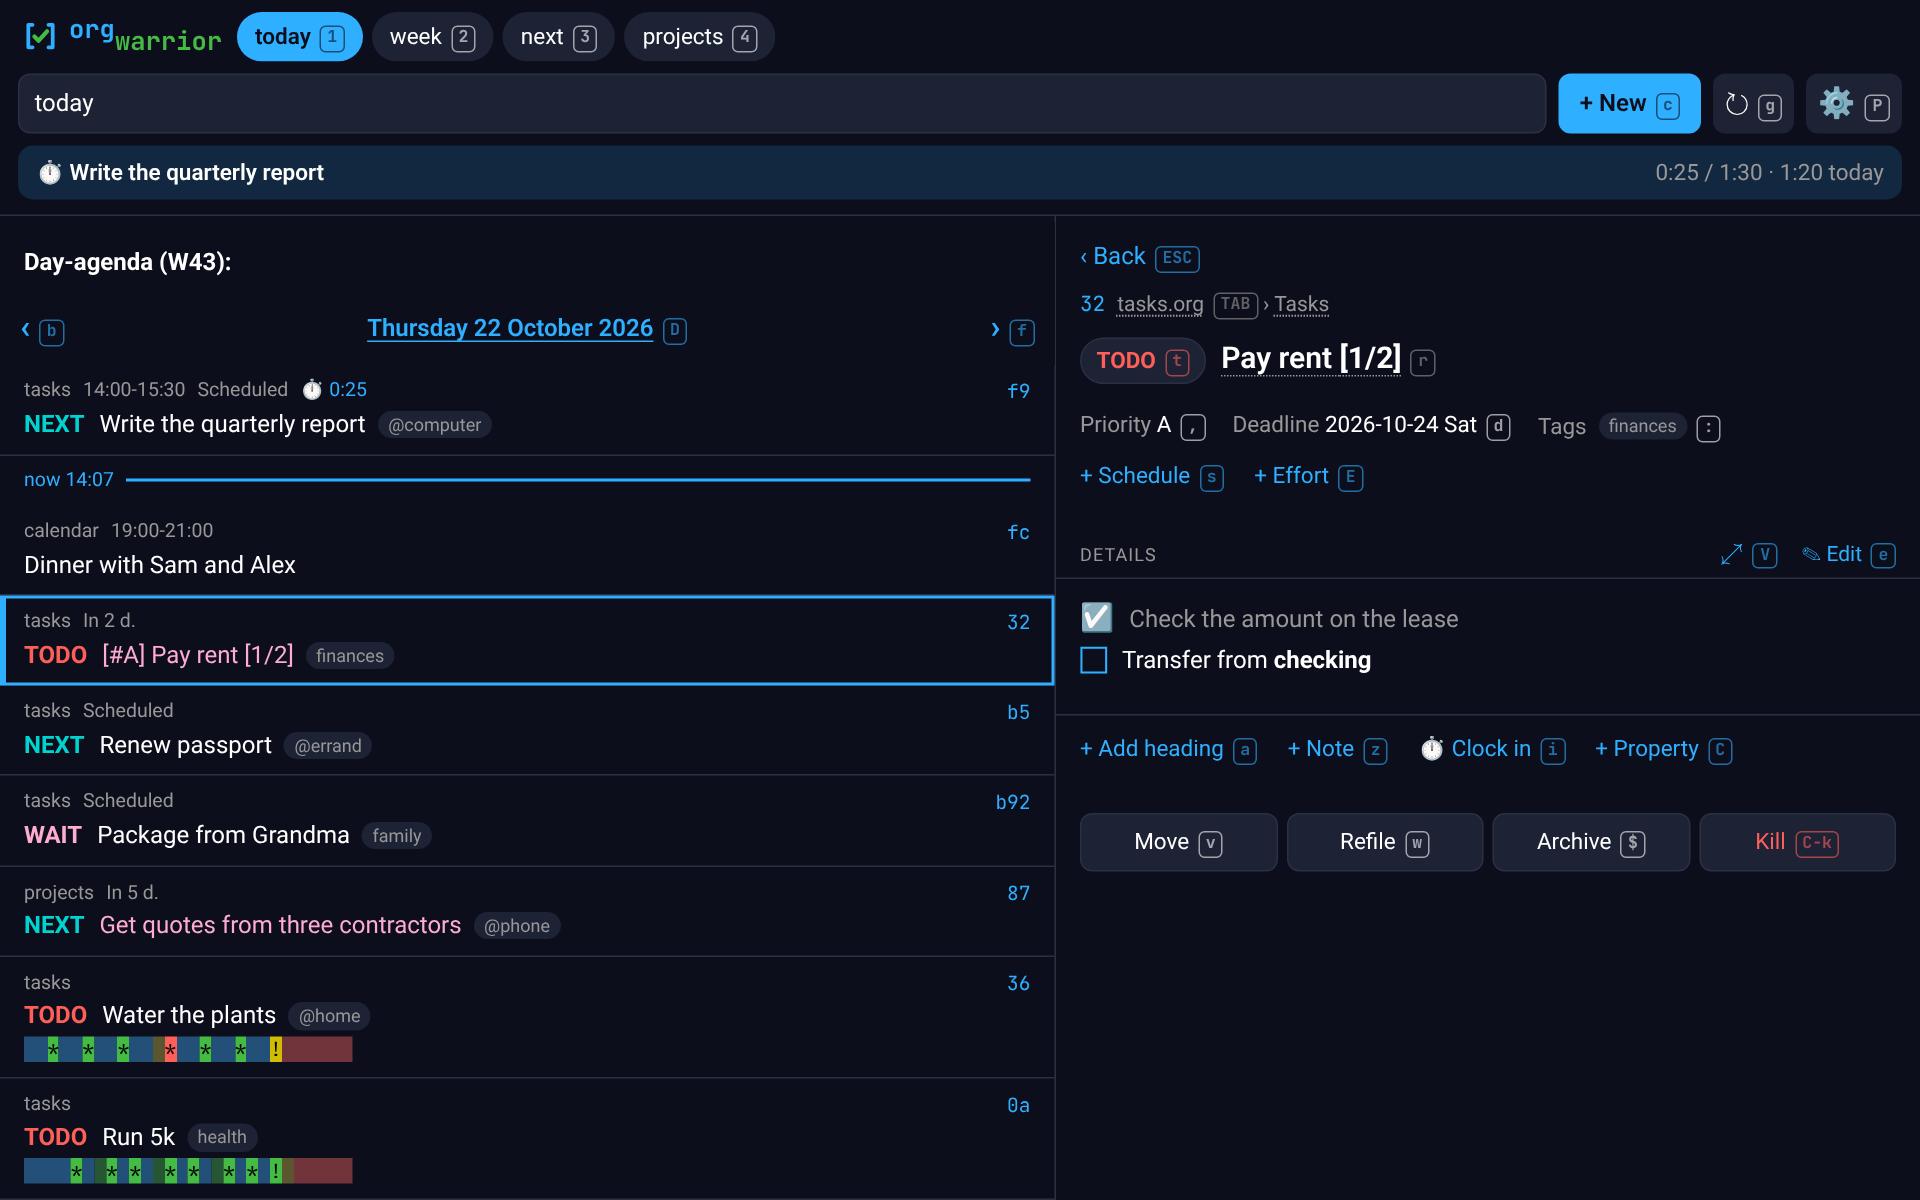
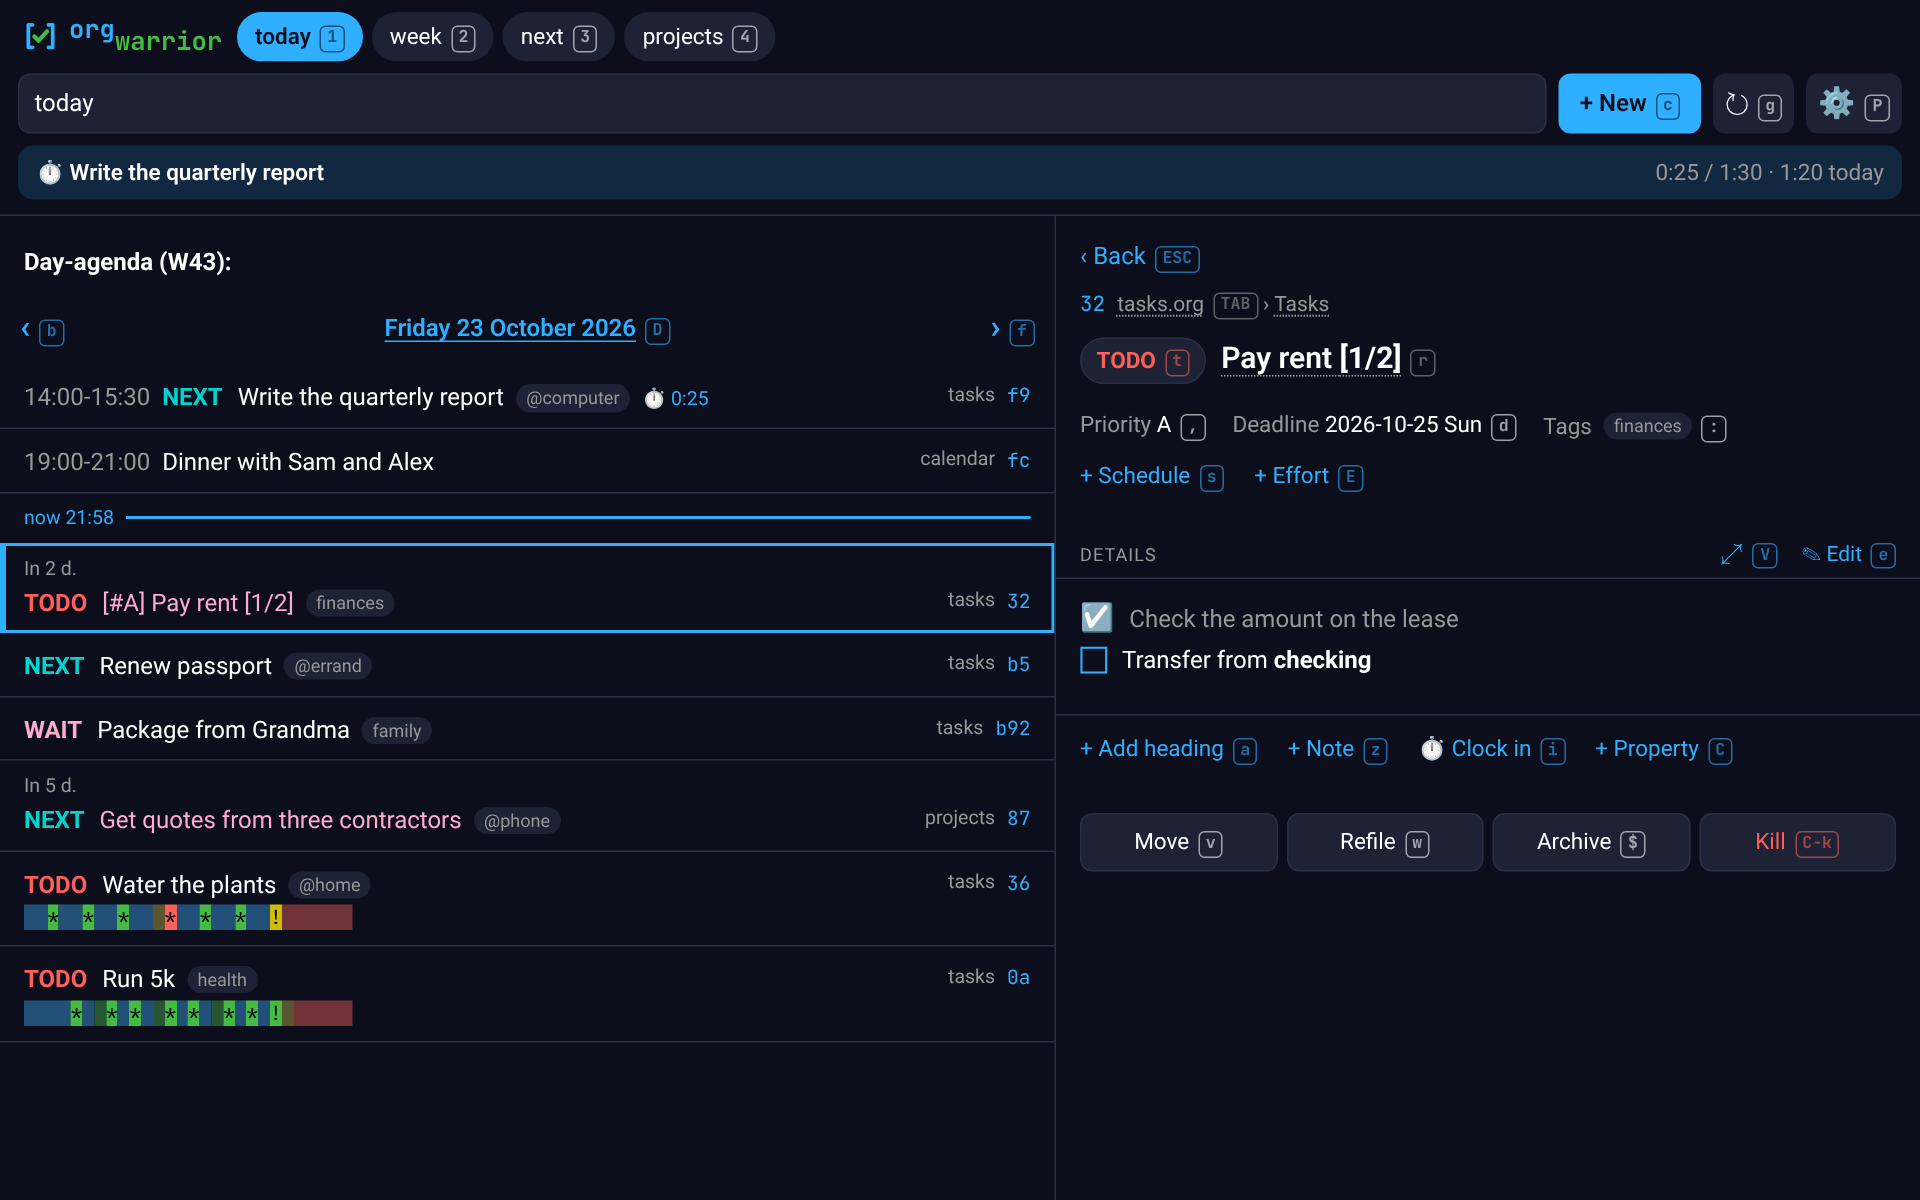
Rows: one layout: the time before the title, the category and ID at its right (the category side by side only), a line above only for a label that says something; no IDs on touch; the task page names its category where it isn't the file's

diff --git a/tests/browser/layout.js b/tests/browser/layout.js
@@ -3,7 +3,7 @@
 import {run, base, PHONE, WIDE} from "./lib.js";
 
 await run(async t => {
-  const {page, fail, expect, idOf, tap, go, back} = t;
+  const {page, fail, expect, check, idOf, tap, go, back} = t;
   await page.goto(`${base}/#/v/all`);
   await page.waitForSelector(".task[data-id]");
   // On a desktop: a right-click is the long press, Escape is Back for a sheet,
@@ -152,4 +152,27 @@ await run(async t => {
   await page.waitForFunction(() => !window.marker && document.querySelector(".task[data-id]"));
   console.log("ok   stale page: reloads itself once nothing's open");
 
+  // Rows: the time before the title, no line above for a bare Scheduled; the
+  // category at the right side by side, not on a phone; on touch no IDs.
+  await page.setViewport(PHONE);
+  await page.goto(`${base}/#/v/today`);
+  await page.waitForSelector(".task[data-id]");
+  const row = title => page.$$eval(".task[data-id]", (rs, t) => {
+    const r = rs.find(r => r.textContent.includes(t)), cat = r?.querySelector(".title > .cat");
+    return r && {meta: r.querySelector(".meta")?.innerText ?? null, time: r.querySelector(".title > .time")?.textContent ?? null,
+                 cat: cat && cat.offsetParent ? cat.textContent : null};
+  }, title);
+  const appt = await row("Dentist appointment");
+  await check("phone: the time before the title, no line above, no category", appt.time === "14:00" && appt.meta === null && appt.cat === null);
+  const touch = await page.evaluate(() => matchMedia("(hover: none) and (pointer: coarse)").matches);
+  if (touch) await check("touch: no IDs on rows", await page.$$eval(".task .id", ids => ids.every(i => !i.offsetParent)));
+  await page.setViewport(WIDE);
+  await page.waitForFunction(() => [...document.querySelectorAll("#list .task[data-id]")].some(r => r.textContent.includes("Dentist appointment")), {timeout: 5000});
+  await check("side by side: the category at the right", (await row("Dentist appointment"))?.cat === "calendar");
+  // A task's page names its category where it isn't the file's name.
+  await go("#/v/all");
+  await page.waitForFunction(() => document.querySelector("#list")?.textContent.includes("Buy batteries"), {timeout: 5000});
+  await go(`#/t/${await idOf("Buy batteries")}`);
+  await page.waitForSelector("#detail .where");
+  await check("the task page: its category", await page.$eval("#detail .where", w => w.querySelector(".category")?.textContent === "Inbox"));
 });

diff --git a/src/orgwarrior_web/static/style.css b/src/orgwarrior_web/static/style.css
@@ -225,6 +225,15 @@ pre.help { font: 13px/1.45 ui-monospace, "JetBrains Mono", monospace; white-spac
 .kids > .sheet-buttons { padding: 0 16px; }
 .meta { display: flex; gap: 8px; font-size: 13px; color: var(--muted); }
 .meta .id { margin-left: auto; font-family: ui-monospace, monospace; color: var(--c4); }
+/* A row: the time before the title; at its right the ID, and the category
+   side by side only (a phone hasn't the room). */
+.title > .id { float: right; margin-left: 8px; font: 13px ui-monospace, monospace; color: var(--c4); line-height: 1.6; }
+.title > .cat { float: right; margin-left: 12px; font-size: 13px; color: var(--muted); line-height: 1.6; }
+.title > .time { margin-right: 8px; color: var(--muted); font-variant-numeric: tabular-nums; }
+@media (max-width: 999px) { .title > .cat { display: none; } }
+/* On touch, rows have no IDs: they're for the keys and the CLI (a task's
+   page still shows its own). */
+@media (hover: none) and (pointer: coarse) { .task .id { display: none; } }
 .title { margin-top: 2px; }
 .habit { margin-top: 4px; font: 13px/1.3 ui-monospace, "JetBrains Mono", monospace; white-space: pre; }
 /* Its days in the theme's own colors, as org-habit's states: clear blue, ready
@@ -252,8 +261,8 @@ pre.help { font: 13px/1.45 ui-monospace, "JetBrains Mono", monospace; white-spac
 .detail .where { color: var(--muted); font-size: 14px; margin-bottom: 10px; }
 .detail .where .id { font-family: ui-monospace, monospace; color: var(--c4); margin-right: 8px; }
 .detail .where a { color: inherit; text-decoration: underline dotted; text-underline-offset: 3px; }
-.detail .where .from, .detail .where .read-only { margin-left: 8px; padding: 0 7px; border-radius: 999px; background: var(--chip); color: var(--c5); }
-.detail .where .read-only { color: var(--muted); }
+.detail .where .from, .detail .where .read-only, .detail .where .category { margin-left: 8px; padding: 0 7px; border-radius: 999px; background: var(--chip); color: var(--c5); }
+.detail .where .read-only, .detail .where .category { color: var(--muted); }
 .title-row .kw { font-weight: 700; }
 .detail pre {
   margin: 0; white-space: pre-wrap; overflow-wrap: anywhere;

diff --git a/src/orgwarrior_web/static/app.js b/src/orgwarrior_web/static/app.js
@@ -170,6 +170,10 @@ function painted(text, spans, from = 0, to = text.length, {links = [], box = nul
 // A habit's consistency graph goes under the title, as org draws it, each day
 // in the page theme's colors (style.css): the Emacs theme's, which the line
 // carries too, are picked for Emacs's background, not the page's.
+// The time before the title; the category and ID at its right (the
+// category side by side only: a phone hasn't the room); a line above it only
+// for a label that says something (In 2 d., Sched. 3x, Deadline), not the
+// bare "Scheduled" (org's default leader: a day's view is nearly all of them).
 function itemRow(line) {
   const t = line.text, parts = t.split("\x1f");
   const [open, close] = line.id
@@ -179,11 +183,12 @@ function itemRow(line) {
     ? `<div class="habit">${painted(line.habit.text, line.habit.spans, 0, undefined, {habit: true})}</div>` : "";
   if (parts.length < 4) return `${open}<div class="title">${painted(t, line.spans)}</div>${habit}${close}`;
   const start = t.length - parts[3].length;
-  const meta = [parts[0], parts[1].replace(/\.+$/, ""), parts[2].replace(/:\s*$/, "")]
-    .map(s => s.trim()).filter(Boolean).map(s => `<span>${esc(s)}</span>`).join("");
+  const [category, time, label] = [parts[0], parts[1].replace(/\.+$/, ""), parts[2].replace(/:\s*$/, "")].map(s => s.trim());
   const id = line.id ? `<span class="id">${esc(line.id)}</span>` : "";
-  return `${open}<div class="meta">${meta}${id}</div>` +
-    `<div class="title">${painted(t, line.spans, start)}</div>${habit}${close}`;
+  const said = label === "Scheduled" ? "" : label;
+  return `${open}${said ? `<div class="meta"><span>${esc(said)}</span></div>` : ""}` +
+    `<div class="title">${id}${category ? `<span class="cat">${esc(category)}</span>` : ""}${
+      time ? `<span class="time">${esc(time)}</span>` : ""}${painted(t, line.spans, start)}</div>${habit}${close}`;
 }
 
 // A child heading on its parent's page: a row like an agenda item's, so tapping,

diff --git a/src/orgwarrior_web/static/taskpage.js b/src/orgwarrior_web/static/taskpage.js
@@ -41,6 +41,9 @@ async function showTask(id, quiet) {
     `<button class="back" onclick="goBack()" data-hint="ESC">‹ Back</button>` +
     `<div class="detail task-fields"><div class="where"><span class="id">${esc(task.id)}</span>${where}${
       task.from ? `<span class="from">from ${esc(task.from)}</span>` : ""}${
+      // Its category, where it isn't the file's name (#+category:, a CATEGORY property).
+      task.category && task.category !== task.file.replace(/^.*\//, "").replace(/\.org$/, "")
+        ? `<span class="category">${esc(task.category)}</span>` : ""}${
       ro ? `<span class="read-only" title="Its file isn't writable: shown, never changed">read only</span>` : ""}</div>` +
     `${taskFieldsHtml(task, heading)}</div>` +
     (text ? `<div class="section-title with-action">Details<button data-do="read"${hintAttr("read")} title="Full screen"

diff --git a/CLAUDE.md b/CLAUDE.md
@@ -36,9 +36,20 @@ file, never committed, holds the maintainer's deployment and to-do.
 
 ## What org draws
 - **Org lays out the fields**: the server's `prefix_format`
-  `%c\x1f%t\x1f%s\x1f` makes each line category, time, label, heading,
-  drawn as a two-line row. Separators but no ID: a diary line, not
-  tappable. Colors are the engine's spans and `[colors]` (`sgrStyle`).
+  `%c\x1f%t\x1f%s\x1f` makes each line category, time, label, heading.
+  Separators but no ID: a diary line, not tappable. Colors are the
+  engine's spans and `[colors]` (`sgrStyle`).
+- **A row** (one layout, from Reddit's "cluttered"): the time before the
+  title; the category and ID at its right, the category side by side only
+  (a phone hasn't the room: the task page names it where it isn't the
+  file's name); a line above only for a label that says something (`In 2
+  d.`, `Sched. 3x`, `Deadline`), not the bare `Scheduled` (org's default
+  leader: a day's view is nearly all of them; a customized one shows).
+  Keywords, priorities and dates stay as text: the state is what's
+  scanned for, and color alone says nothing to a colorblind reader. On
+  touch, rows show no IDs (the keys' and the CLI's); a task's page always
+  does. Not chosen: a preference between this and org's two-line rows
+  (one layout, as everywhere here).
 - **Now line**: the server turns the time grid on whatever the CLI's
   config says; the page drops empty hours and draws org's `now` line. A
   view showing it reloads in place every 5 minutes.

diff --git a/README.md b/README.md
@@ -97,7 +97,8 @@ that instead: it carries both.
   (`projects.org`), a word to search, `--archive` and a word to search the
   archives too, `closed week` for what you got done. On a day's agenda,
   ‹ › step through the days and a tap on the date picks any; on the week,
-  through the weeks.
+  through the weeks. Each row is the time and the task, with where it
+  lives at the right on a desktop.
 - **A task's page** shows it as fields: tap the title to rename it, a
   state to set it (with a note where Org would ask), what's set
   (Scheduled, Deadline, an event's When, Priority, Effort, Tags) to change
